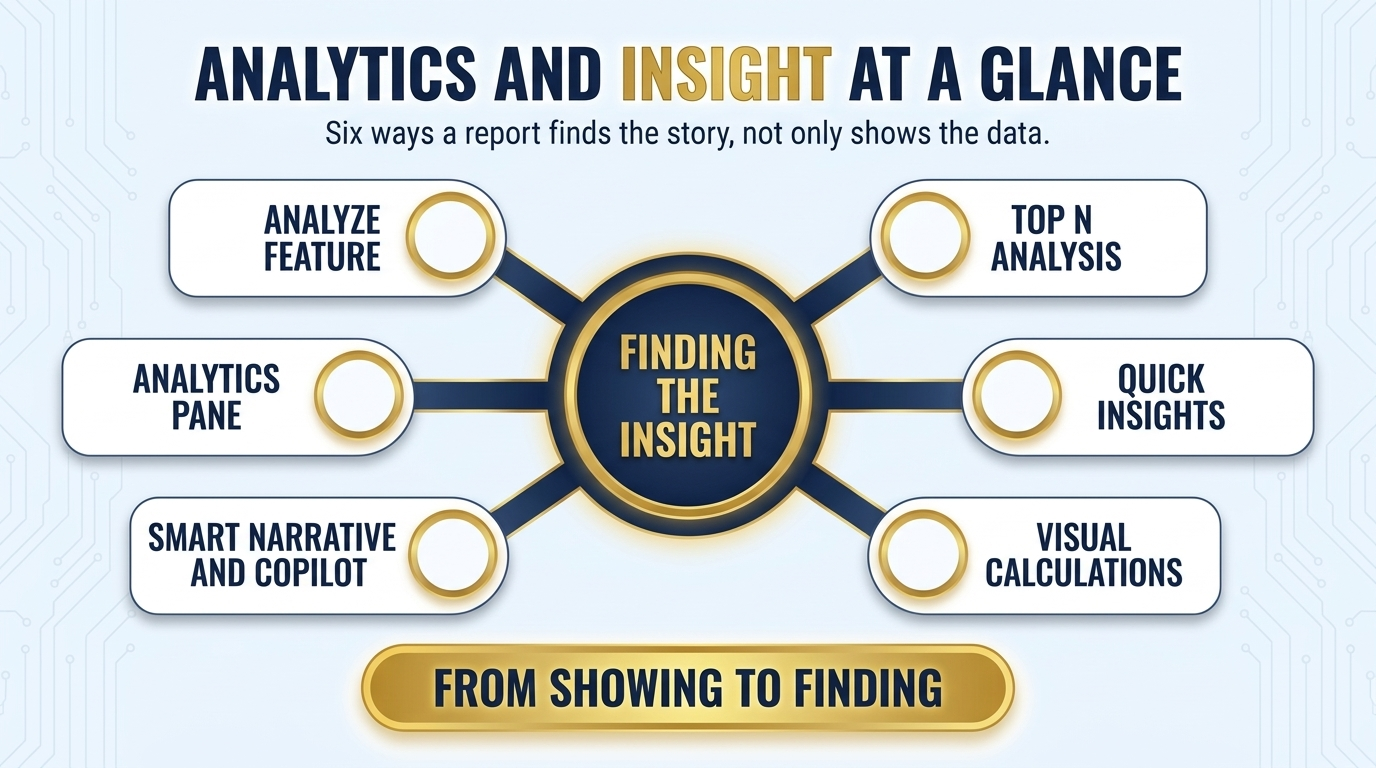
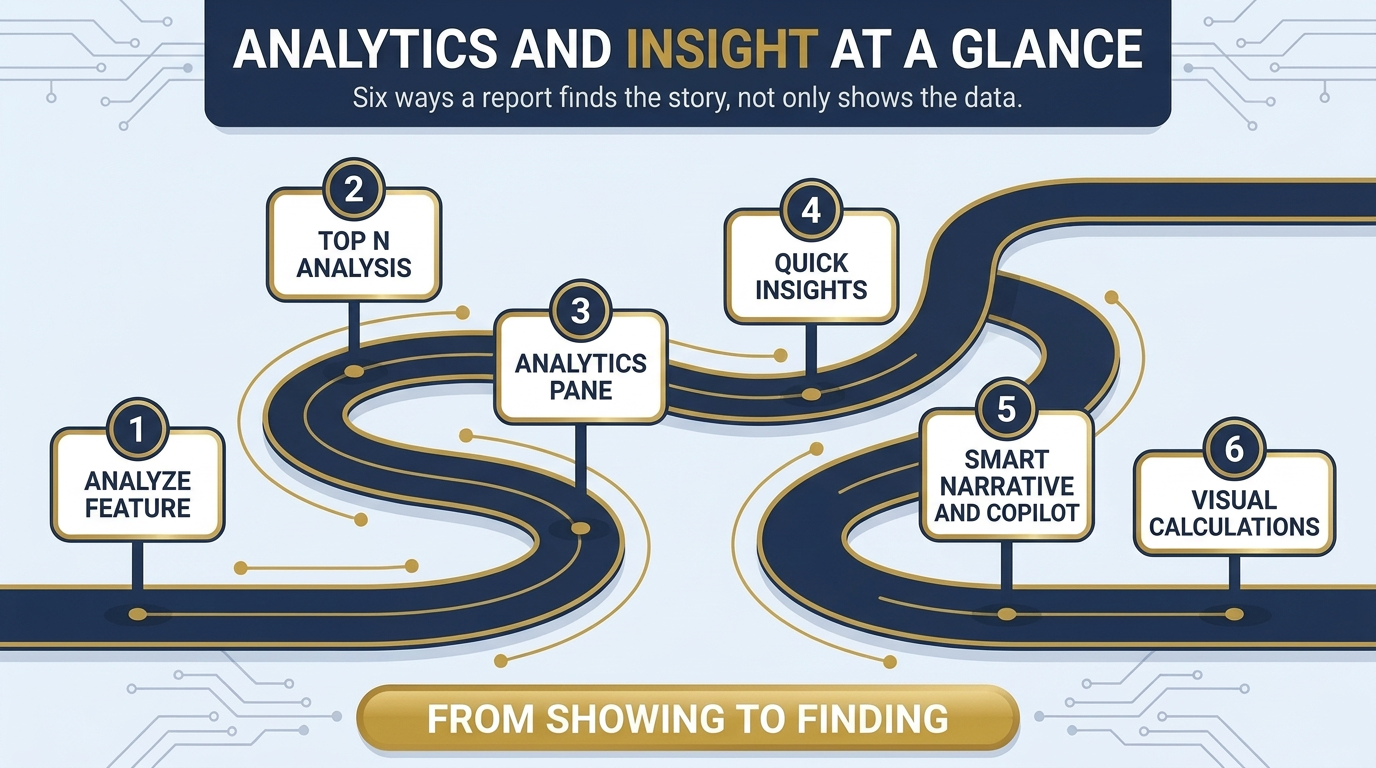
Regenerate Chapter 5 infographics with distinct layouts
The first cut reused the hub-and-spoke opener from Chapters 3 and 4, so
Figure 5.1 looked near-identical to Figure 4.1. Regenerate all four
Ch 5 figures with compositions that differ from each other and from the
Chapter 4 set:

- Fig 5.1: winding roadmap with six numbered milestones (was hub-and-spoke)
- Fig 5.2: before/after, "the mystery" vs "the explanation" (was process flow)
- Fig 5.3: asymmetric spatial diagram, broad model zone vs one visual
- Fig 5.4: ascending diagonal staircase (was a stacked ladder)

Locked navy/gold poster style is unchanged; only the layouts differ.
HTML-comment prompt blocks, alt text, and captions updated to match.

diff --git a/chapters/ch05-analytics-statistics-visual-calculations.md b/chapters/ch05-analytics-statistics-visual-calculations.md
@@ -8,15 +8,15 @@ NANO BANANA PRO — CHAPTER 5 OPENING INFOGRAPHIC
 File: images/ch05/fig-5-1-ch5-at-a-glance.png
 Title: Analytics and Insight at a Glance
 Concept: A roadmap of the chapter — the six features that move a report from showing data to finding the story inside it.
-Archetype: Hub-and-spoke — central "FINDING THE INSIGHT" node, six labelled spokes.
+Archetype: Roadmap — a winding left-to-right path with six numbered milestone signposts (deliberately NOT hub-and-spoke, to differ from the Ch3/Ch4 openers).
 Reference: images/_style-reference/fig-3-2-two-reactions.png
-Labels: spokes ANALYZE FEATURE, TOP N ANALYSIS, ANALYTICS PANE, QUICK INSIGHTS, SMART NARRATIVE AND COPILOT, VISUAL CALCULATIONS; banner "FROM SHOWING TO FINDING".
+Labels: milestones 1 ANALYZE FEATURE, 2 TOP N ANALYSIS, 3 ANALYTICS PANE, 4 QUICK INSIGHTS, 5 SMART NARRATIVE AND COPILOT, 6 VISUAL CALCULATIONS; banner "FROM SHOWING TO FINDING".
 Palette: navy #1B2A47, gold #C9A23A, white / pale-blue background.
 -->
 
 :::{figure} ../images/ch05/fig-5-1-ch5-at-a-glance.png
 :label: fig-5-1
-:alt: A hub-and-spoke infographic titled "Analytics and Insight at a Glance." A central node, "finding the insight," connects to six spokes: analyze feature, top N analysis, analytics pane, quick insights, smart narrative and Copilot, and visual calculations. A banner reads "from showing to finding."
+:alt: A winding-roadmap infographic titled "Analytics and Insight at a Glance." Six numbered milestone signposts run along the path: analyze feature, top N analysis, analytics pane, quick insights, smart narrative and Copilot, and visual calculations. A banner reads "from showing to finding."
 :width: 100%
 :align: center
 
@@ -98,20 +98,20 @@ It is the difference between a mechanic who says *your engine light is on* and o
 NANO BANANA PRO — CHAPTER 5 FIGURE 2 (concept infographic)
 File: images/ch05/fig-5-2-explain-the-change.png
 Title: Explain the Change
-Concept: The Analyze feature's four-step workflow — from spotting a jump or drop to reading the cause behind it.
-Archetype: Process flow — four numbered steps joined by gold arrows.
+Concept: The Analyze feature turns an unexplained drop into a named cause.
+Archetype: Before/after — two side-by-side panels with a central gold arrow.
 Reference: images/_style-reference/fig-3-2-two-reactions.png
-Labels: steps SPOT THE CHANGE, RIGHT-CLICK THE DATA POINT, CHOOSE ANALYZE, READ THE EXPLANATION; footer "THE REPORT DOES THE FIRST PASS".
+Labels: left panel "THE MYSTERY" (a dipping line chart under a question mark); right panel "THE EXPLANATION" (a ranked bar chart, one bar highlighted, "ONE RESELLER, ONE COUNTRY"); footer "THE REPORT DOES THE FIRST PASS".
 Palette: navy #1B2A47, gold #C9A23A, white / pale-blue background.
 -->
 
 :::{figure} ../images/ch05/fig-5-2-explain-the-change.png
 :label: fig-5-2
-:alt: A four-step process-flow infographic titled "Explain the Change." The steps run left to right: spot the change, right-click the data point, choose Analyze, and read the explanation. A footer reads "the report does the first pass."
+:alt: A before-and-after infographic titled "Explain the Change." The left panel, "the mystery," shows a line chart dipping under a question mark; the right panel, "the explanation," shows a ranked bar chart with one bar highlighted and labelled "one reseller, one country." A footer reads "the report does the first pass."
 :width: 100%
 :align: center
 
-**Figure 5.2.** *Explain the Change.* The Analyze feature's four-step workflow — from spotting a jump or drop to reading the cause behind it.
+**Figure 5.2.** *Explain the Change.* The Analyze feature turns an unexplained drop into a named cause.
 :::
 
 <div style="background-color: #D5F5E3; border-left: 5px solid #27AE60; padding: 15px; margin: 15px 0; border-radius: 4px;">
@@ -300,20 +300,20 @@ Because a visual calculation can see the visual's rows, in order, it can do thin
 NANO BANANA PRO — CHAPTER 5 FIGURE 3 (concept infographic)
 File: images/ch05/fig-5-3-measure-vs-visual-calc.png
 Title: Two Places to Calculate
-Concept: A measure is computed in the model and reusable everywhere; a visual calculation is computed on the visual and local to it.
-Archetype: Before/after — two side-by-side panels, central gold divider.
+Concept: A measure lives in the model and is reused across many visuals; a visual calculation stays on one visual.
+Archetype: Asymmetric spatial diagram — a broad connected "model" zone vs a single small "visual" panel.
 Reference: images/_style-reference/fig-3-2-two-reactions.png
-Labels: left panel MEASURE — COMPUTED IN THE MODEL / REUSABLE EVERYWHERE / CANNOT SEE THE VISUAL LAYOUT; right panel VISUAL CALCULATION — COMPUTED ON THE VISUAL / SEES THE VISUAL ROWS / LOCAL TO ONE VISUAL; footer "PICK BY WHERE THE ANSWER MUST LIVE".
+Labels: left zone "THE MODEL" holding a MEASURE badge with gold connector lines fanning to four mini-charts, caption "REUSED EVERYWHERE"; right panel "ONE VISUAL" holding a VISUAL CALCULATION badge in a row grid, caption "LOCAL TO ONE VISUAL"; footer "PICK BY WHERE THE ANSWER MUST LIVE".
 Palette: navy #1B2A47, gold #C9A23A, white / pale-blue background.
 -->
 
 :::{figure} ../images/ch05/fig-5-3-measure-vs-visual-calc.png
 :label: fig-5-3
-:alt: A two-panel comparison infographic titled "Two Places to Calculate." The left panel, "measure," reads "computed in the model, reusable everywhere, cannot see the visual layout." The right panel, "visual calculation," reads "computed on the visual, sees the visual rows, local to one visual." A footer reads "pick by where the answer must live."
+:alt: A spatial diagram titled "Two Places to Calculate." On the left, a broad "the model" zone holds a measure whose gold connector lines fan out to four mini-charts, captioned "reused everywhere." On the right, a single small "one visual" panel holds a visual calculation inside its row grid, captioned "local to one visual." A footer reads "pick by where the answer must live."
 :width: 100%
 :align: center
 
-**Figure 5.3.** *Two Places to Calculate.* A measure lives in the model and travels everywhere; a visual calculation lives on one visual and sees its rows.
+**Figure 5.3.** *Two Places to Calculate.* A measure lives in the model and travels to every visual; a visual calculation stays on the one visual it is written on.
 :::
 
 You create one by selecting a visual and choosing **New visual calculation** — Power BI opens an editing screen showing the visual's data as a grid, with a formula bar above it. You write a DAX expression there, and it becomes a new field in the visual. A running total on a Sales Amount by Month table is a single line:
@@ -350,20 +350,20 @@ If the measure-versus-visual-calculation line feels blurry right now, that is th
 NANO BANANA PRO — CHAPTER 5 FIGURE 4 (synthesis infographic)
 File: images/ch05/fig-5-4-data-to-insight.png
 Title: From Data to Insight
-Concept: The chapter's features stacked as a ladder of escalating analytical value, from showing a number to narrating the story.
-Archetype: Pyramid / ladder — five stacked rungs, value rising upward.
+Concept: The chapter's features as an ascending staircase of analytical value, from showing a number to narrating the story.
+Archetype: Ascending staircase — five steps climbing diagonally from lower left to upper right (deliberately NOT a stacked pyramid, to differ from Ch4 fig-4-2).
 Reference: images/_style-reference/fig-3-2-two-reactions.png
-Labels: rungs bottom to top SHOW THE NUMBER, ADD A REFERENCE LINE, EXPLAIN THE CHANGE, FORECAST FORWARD, NARRATE THE STORY; side arrow "MORE INSIGHT"; footer "A REPORT THAT ANALYZES, NOT ONLY DISPLAYS".
+Labels: steps bottom to top SHOW THE NUMBER, ADD A REFERENCE LINE, EXPLAIN THE CHANGE, FORECAST FORWARD, NARRATE THE STORY; diagonal arrow "MORE INSIGHT"; footer "A REPORT THAT ANALYZES, NOT ONLY DISPLAYS".
 Palette: navy #1B2A47, gold #C9A23A, white / pale-blue background.
 -->
 
 :::{figure} ../images/ch05/fig-5-4-data-to-insight.png
 :label: fig-5-4
-:alt: A five-rung ladder infographic titled "From Data to Insight." From bottom to top the rungs read "show the number," "add a reference line," "explain the change," "forecast forward," and "narrate the story." A side arrow reads "more insight." A footer reads "a report that analyzes, not only displays."
+:alt: A five-step ascending-staircase infographic titled "From Data to Insight." Climbing from lower left to upper right, the steps read "show the number," "add a reference line," "explain the change," "forecast forward," and "narrate the story." A diagonal arrow reads "more insight." A footer reads "a report that analyzes, not only displays."
 :width: 100%
 :align: center
 
-**Figure 5.4.** *From Data to Insight.* Each rung makes the report do more analytical work — the chapter, climbed in one picture.
+**Figure 5.4.** *From Data to Insight.* Each step makes the report do more analytical work — the chapter, climbed in one picture.
 :::
 
 Camila set out to build the report Marcus had described at the conference screen — one that does the first pass.
